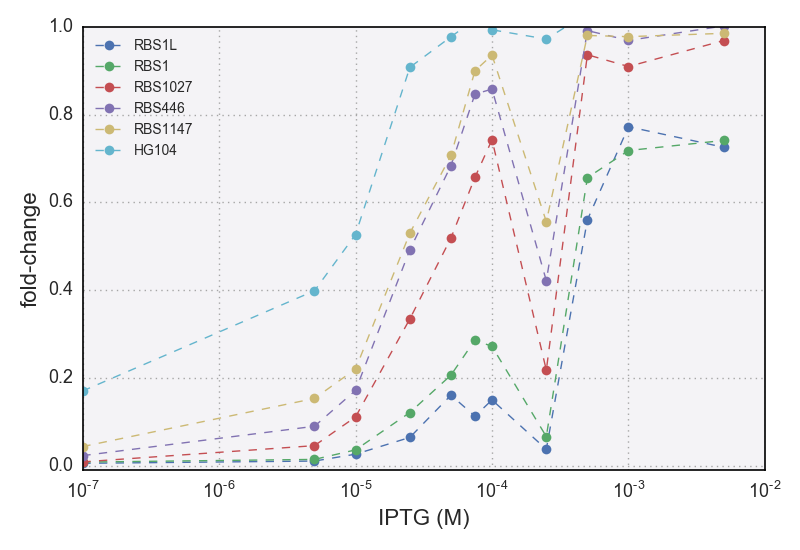
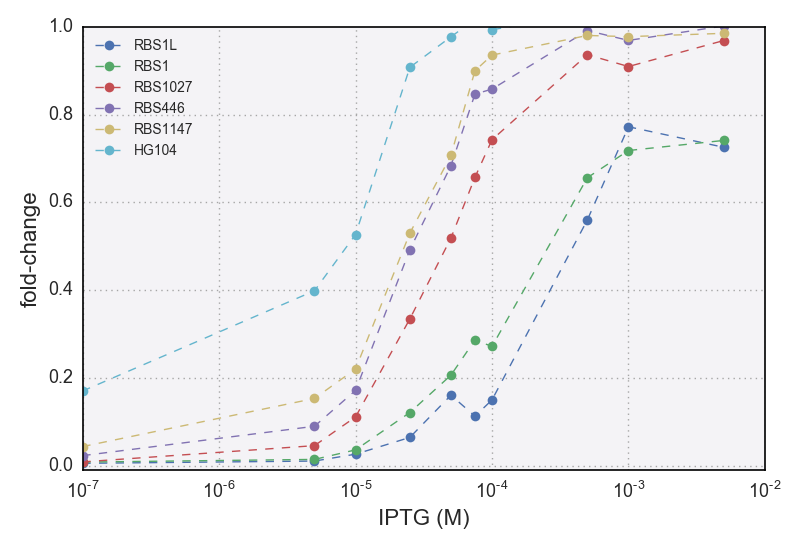
Modified the analysis for 20160804 to include the data set excluding the wrong concentration such that the data set is not entirely thrown away

diff --git a/code/processing/20160804_O2_IPTG_titration/processing.py b/code/processing/20160804_O2_IPTG_titration/processing.py
@@ -48,7 +48,7 @@ energy = -13.9
 rbs = np.array(['auto', 'delta', 'RBS1L', 'RBS1', 'RBS1027', 'RBS446', 'RBS1147', 'HG104'])
 repressors = np.array([0, 0, 870, 610, 130, 62, 30, 11])
 
-concentrations = [0, 0.1, 5, 10, 25, 50, 75, 100, 250, 500, 1000, 5000] # uM IPTG
+concentrations = [0, 0.1, 5, 10, 25, 50, 75, 100, 500, 1000, 5000] # uM IPTG
 # define a dictionary that contains the number of well and the concentration
 
 #=============================================================================== 
